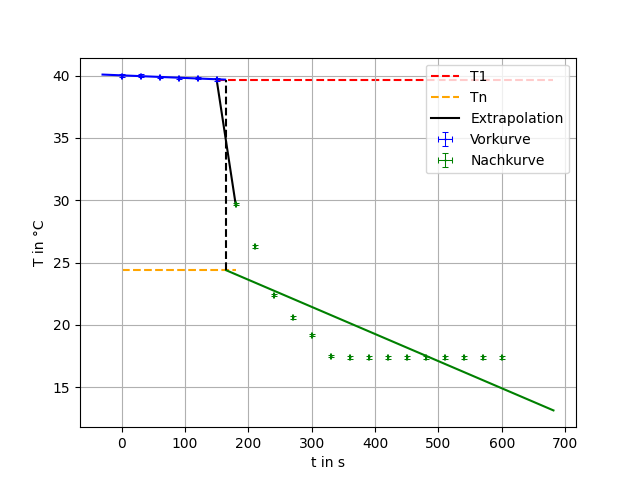
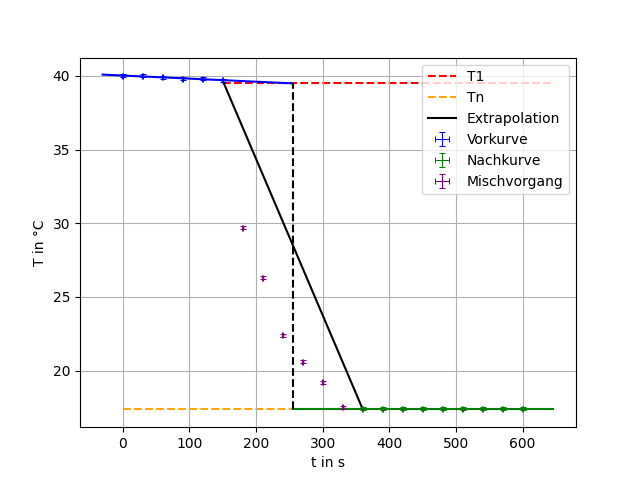
t3 add/split curves

diff --git a/t3/plot_temp_change.py b/t3/plot_temp_change.py
@@ -11,9 +11,9 @@ def linear_fit(x, m, c):
 # files = ["temp_teilversuch_2_blei", "temp2_blei_1", "temp2_blei_2"]
 # files = ["temp_teilversuch_2_glas", "temp2_glas_1", "temp2_glas_2"]
 # files = ["temp_teilversuch_2_kupfer", "temp2_kupfer_1", "temp2_kupfer_2"]
-# files = ["temp_teilversuch_4", "temp4_1", "temp4_2"]
+files = ["temp_teilversuch_4", "temp4_1", "temp4_3", "temp4_2"]
 
-names = ["Vorkurve", "Nachkurve"]
+names = ["Vorkurve", "Nachkurve", "Mischvorgang"]
 
 x_data_unit = "s"
 y_data_unit = "°C"
@@ -65,7 +65,7 @@ out = model.fit(y_1, params, x=x_1)
 linear_model_1 = np.poly1d([out.params['m'].value, out.params['c'].value])
 
 print('-------------------------------')
-print('Parameter    Value       Stderr')
+print('Parameter     Wert       Fehler')
 for name, param in out.params.items():
     if param.stderr is not None:
         print(f'{name:7s} {param.value:11.5f} {param.stderr:11.5f}')
@@ -111,13 +111,37 @@ out = model.fit(y_2, params, x=x_2)
 linear_model_2 = np.poly1d([out.params['m'].value, out.params['c'].value])
 
 print('-------------------------------')
-print('Parameter    Value       Stderr')
+print('Parameter     Wert       Fehler')
 for name, param in out.params.items():
     if param.stderr is not None:
         print(f'{name:7s} {param.value:11.5f} {param.stderr:11.5f}')
     else:
         print(f'{name:7s} {param.value:11.5f} {0.0:11.5f}')
 print('-------------------------------')
+
+if len(files) == 4:
+    x_3 = []
+    y_3 = []
+
+    x_3_error = []
+    y_3_error = []
+    with open(files[3], "r", encoding="utf-8") as file:
+        for line in file.readlines():
+            temp = line.split(" ")
+            x_3.append(float(temp[0].strip(x_data_unit)))
+            y_3.append(float(temp[2].strip(y_data_unit)))
+            if temp[1] != '':
+                x_3_error.append(float(temp[1].strip(x_data_unit)))
+            if temp[3] != '':
+                y_3_error.append(float(temp[3].strip(y_data_unit)))
+
+    print("X-Werte:\n", x_3)
+    print("Y-Werte:\n", y_3)
+
+    print("X-Fehler-Werte:\n", x_3_error)
+    print("Y-Fehler-Werte:\n", y_3_error)
+
+    plot.errorbar(x_3, y_3, xerr=x_3_error, yerr=y_3_error, fmt='o', label=names[2], ms=0.5, zorder=100, capsize=2, capthick=0.75, elinewidth=0.75, color="purple")
 
 
 extra_point = last_point[0] + (first_point[0] - last_point[0]) / 2
